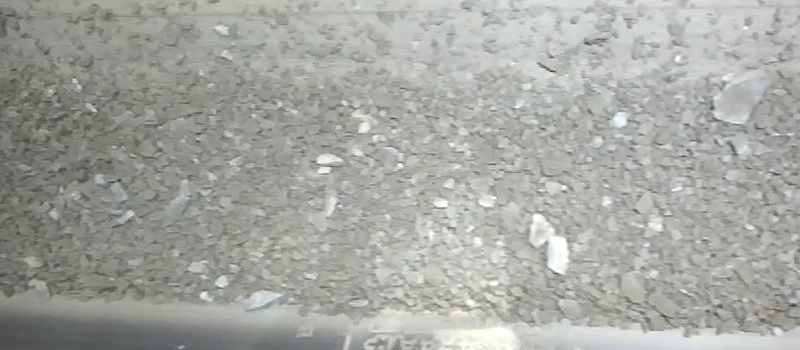
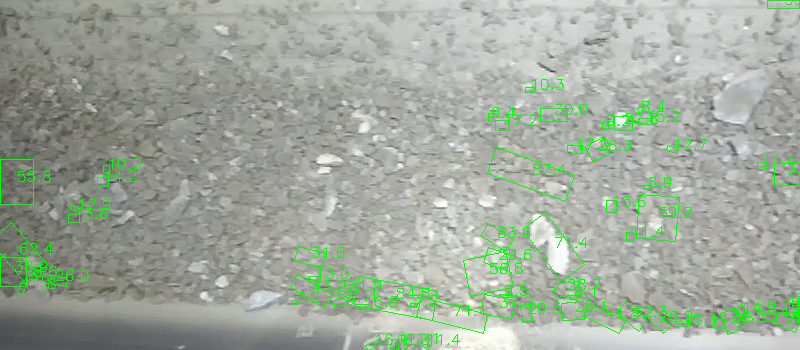
fix

diff --git a/processing/analyzer.py b/processing/analyzer.py
@@ -1,116 +1,174 @@
+from dataclasses import dataclass
+from typing import Tuple, List, Union
+
 import cv2
 import numpy as np
 import matplotlib.pyplot as plt
-from typing import Tuple, List, Union
 
-from processing.depth_config import DepthConfig
 from processing.color_config import ColorConfig
+from processing.depth_config import DepthConfig
 from processing.visual_config import VisualizationConfig
 
 def correct_slope(depth_map: np.ndarray, cfg: DepthConfig) -> np.ndarray:
     h, w = depth_map.shape
-    scale = 0.1 if depth_map.nbytes > 100e6 else 0.25
-    small = cv2.resize(depth_map, (0,0), fx=scale, fy=scale, interpolation=cv2.INTER_AREA)
+    scale = cfg.slope_scale_large if depth_map.nbytes > cfg.slope_bytes_threshold else cfg.slope_scale_small
+    small = cv2.resize(depth_map, (0, 0), fx=scale, fy=scale, interpolation=cv2.INTER_AREA)
     ys, xs = np.nonzero(small > cfg.depth_min)
-    if len(xs) < 100:
+    if len(xs) < cfg.svd_point_threshold:
         return depth_map
-    zs = small[ys,xs]
-    xs_f, ys_f = xs/scale, ys/scale
+    zs = small[ys, xs]
+    xs_f, ys_f = xs / scale, ys / scale
     pts = np.stack([xs_f, ys_f, zs], axis=1)
     centroid = pts.mean(axis=0)
-    _,_,Vt = np.linalg.svd(pts-centroid, full_matrices=False)
+    _, _, Vt = np.linalg.svd(pts - centroid, full_matrices=False)
     normal = Vt[2]
-    X,Y = np.meshgrid(np.arange(w), np.arange(h))
-    Zp = ((normal[0]*(X-centroid[0])+normal[1]*(Y-centroid[1]))/normal[2]) + centroid[2]
-    corr = np.where(depth_map>cfg.depth_min, depth_map - Zp, depth_map)
+    X, Y = np.meshgrid(np.arange(w), np.arange(h))
+    Zp = ((normal[0] * (X - centroid[0]) + normal[1] * (Y - centroid[1])) / normal[2]) + centroid[2]
+    corr = np.where(depth_map > cfg.depth_min, depth_map - Zp, depth_map)
     return np.clip(corr, cfg.depth_min, cfg.depth_max).astype(np.float32)
 
-def segment_color(img: np.ndarray, cfg: ColorConfig) -> np.ndarray:
-        # 0. Медианный фильтр для подавления шума :contentReference[oaicite:3]{index=3}
-    if cfg.median_blur_size > 1:
-        img = cv2.medianBlur(img, cfg.median_blur_size)
-    gray = cv2.cvtColor(img, cv2.COLOR_BGR2GRAY)
-    gray = cv2.equalizeHist(gray)
-    if cfg.adaptive_thresh:
-        return cv2.adaptiveThreshold(gray,255,cv2.ADAPTIVE_THRESH_GAUSSIAN_C,
-                                     cv2.THRESH_BINARY,11,2)
-    flag = cv2.THRESH_BINARY
-    if cfg.binary_thresh==0: flag |= cv2.THRESH_OTSU
-    _,b = cv2.threshold(gray, cfg.binary_thresh,255,flag)
-    return b
-
-def segment_depth(dm: np.ndarray, cfg: DepthConfig) -> np.ndarray:
-        # 0. Медианный фильтр по глубине для сглаживания выбросов :contentReference[oaicite:4]{index=4}
-    if cfg.median_blur_size > 1:
-        dm = cv2.medianBlur(dm, cfg.median_blur_size)
-    dn = cv2.normalize(dm,None,0,255,cv2.NORM_MINMAX).astype(np.uint8)
-    if cfg.adaptive_thresh:
-        return cv2.adaptiveThreshold(dn,255,cv2.ADAPTIVE_THRESH_GAUSSIAN_C,
-                                     cv2.THRESH_BINARY,11,2)
-    flag = cv2.THRESH_BINARY
-    if cfg.binary_thresh==0: flag |= cv2.THRESH_OTSU
-    _,b = cv2.threshold(dn, cfg.binary_thresh,255,flag)
-    return b
-
-def process_mask(mask: np.ndarray, k:int, it:int) -> np.ndarray:
-    ker = np.ones((k,k),np.uint8)
-    op = cv2.morphologyEx(mask,cv2.MORPH_OPEN,ker,iterations=it)
-    return cv2.erode(op, np.ones((2,2),np.uint8),iterations=1)
 
 def analyze_mask(img: np.ndarray, mask: np.ndarray,
-                 cfg: Union[ColorConfig,DepthConfig]) \
-        -> Tuple[np.ndarray,List[float],List[float]]:
-    dist = cv2.distanceTransform(mask,cv2.DIST_L2,cfg.distance_transform_mask)
-    _,fg = cv2.threshold(dist, cfg.foreground_threshold_ratio*dist.max(),255,0)
-    fg = fg.astype(np.uint8)
-    bg = cv2.dilate(mask, np.ones((3,3),np.uint8),iterations=cfg.dilate_iterations)
-    unk = cv2.subtract(bg,fg)
-    _,m = cv2.connectedComponents(fg)
-    m = (m+1).astype(np.int32); m[unk==255]=0
-    gray = cv2.cvtColor(img,cv2.COLOR_BGR2GRAY)
-    markers = cv2.watershed(cv2.merge([gray]*3), m)
-    seg = (markers>1).astype(np.uint8)
-    _,_,stats,_ = cv2.connectedComponentsWithStats(seg, connectivity=8)
+                 cfg: Union[ColorConfig, DepthConfig]) -> Tuple[np.ndarray, List[float], List[float]]:
+    contours, _ = cv2.findContours(mask, cv2.RETR_EXTERNAL, cv2.CHAIN_APPROX_SIMPLE)
     res = img.copy()
-    diams,xs = [],[]
-    for st in stats[1:]:
-        area = st[cv2.CC_STAT_AREA]
-        d = 2*np.sqrt(area/np.pi)
-        if cfg.min_particle_size<=d<=cfg.max_particle_size:
-            diams.append(d)
-            x,y,w,h = st[:4]
-            cx = x + w/2; xs.append(cx)
-            cv2.rectangle(res,(x,y),(x+w,y+h),cfg.bbox_color,cfg.bbox_thickness)
-            cv2.putText(res,f"{d:.1f}",(x,y-5),cv2.FONT_HERSHEY_SIMPLEX,
-                        cfg.font_scale,cfg.bbox_color,cfg.font_thickness)
-    return res,diams,xs
+    diagonals, xs = [], []
+
+    for cnt in contours:
+        area = cv2.contourArea(cnt)
+        if area < cfg.min_contour_area:
+            continue
+
+        rect = cv2.minAreaRect(cnt)
+        (cx, cy), (w, h), angle = rect
+        diag = np.sqrt(w ** 2 + h ** 2)
+
+        if not (cfg.min_particle_size <= diag <= cfg.max_particle_size):
+            continue
+
+        box = cv2.boxPoints(rect)
+        box = np.int0(box)
+        diagonals.append(diag)
+        xs.append(cx)
+
+        cv2.drawContours(res, [box], 0, cfg.bbox_color, cfg.bbox_thickness)
+        cv2.putText(res, f"{diag:.1f}", (int(cx), int(cy)),
+                    cv2.FONT_HERSHEY_SIMPLEX, cfg.font_scale, cfg.bbox_color, cfg.font_thickness)
+
+    return res, diagonals, xs
+
+
+def segment_color(img: np.ndarray, cfg: ColorConfig) -> dict:
+    steps = {"original": img.copy()}
+
+    median = cv2.medianBlur(img, cfg.median_blur_size) if cfg.median_blur_size > 1 else img.copy()
+    steps["median_blur"] = median.copy()
+
+    gray = cv2.cvtColor(median, cv2.COLOR_BGR2GRAY)
+    steps["gray"] = gray.copy()
+
+    if cfg.adaptive_thresh:
+        binary = cv2.adaptiveThreshold(
+            gray, 255, cv2.ADAPTIVE_THRESH_GAUSSIAN_C,
+            cv2.THRESH_BINARY, cfg.adaptive_block_size, cfg.adaptive_C
+        )
+    else:
+        flag = cv2.THRESH_BINARY
+        if cfg.use_otsu and cfg.binary_thresh == 0:
+            flag |= cv2.THRESH_OTSU
+        _, binary = cv2.threshold(gray, cfg.binary_thresh, 255, flag)
+    steps["binary_mask"] = binary.copy()
+    return steps
+
+
+def segment_depth(dm: np.ndarray, cfg: DepthConfig) -> dict:
+    steps = {"original_depth": dm.copy()}
+
+    median = cv2.medianBlur(dm, cfg.median_blur_size) if cfg.median_blur_size > 1 else dm.copy()
+    steps["median_blur"] = median.copy()
+
+    normalized = cv2.normalize(median, None, 0, 255, cv2.NORM_MINMAX).astype(np.uint8)
+    steps["normalized"] = normalized.copy()
+
+    if cfg.adaptive_thresh:
+        binary = cv2.adaptiveThreshold(
+            normalized, 255, cv2.ADAPTIVE_THRESH_GAUSSIAN_C,
+            cv2.THRESH_BINARY, cfg.adaptive_block_size, cfg.adaptive_C
+        )
+    else:
+        flag = cv2.THRESH_BINARY
+        if cfg.use_otsu and cfg.binary_thresh == 0:
+            flag |= cv2.THRESH_OTSU
+        _, binary = cv2.threshold(normalized, cfg.binary_thresh, 255, flag)
+    steps["binary_mask"] = binary.copy()
+    return steps
+
+
+def process_mask(mask: np.ndarray, cfg: Union[ColorConfig, DepthConfig]) -> np.ndarray:
+    shape_map = {
+        "rect": cv2.MORPH_RECT,
+        "ellipse": cv2.MORPH_ELLIPSE,
+        "cross": cv2.MORPH_CROSS
+    }
+    kernel_shape = shape_map.get(cfg.morph_kernel_shape, cv2.MORPH_RECT)
+    ker = cv2.getStructuringElement(kernel_shape, (cfg.morph_kernel_size, cfg.morph_kernel_size))
+    opened = cv2.morphologyEx(mask, cv2.MORPH_OPEN, ker, iterations=cfg.morph_iterations)
+    eroded = cv2.erode(opened, np.ones((2, 2), np.uint8), iterations=1)
+    return eroded
+
 
 def analyze_frame(color_img: np.ndarray, depth_map: np.ndarray,
                   d_cfg: DepthConfig, c_cfg: ColorConfig,
-                  v_cfg: VisualizationConfig):
-    # types
-    if color_img.dtype!=np.uint8 and color_img.max()<=1.0:
-        color_img=(color_img*255).astype(np.uint8)
-    if depth_map.dtype!=np.float32:
-        depth_map=depth_map.astype(np.float32)
-    # slope
-    if d_cfg.slope_correction:
-        depth_map = correct_slope(depth_map,d_cfg)
-    # color pipeline
-    cm = segment_color(color_img,c_cfg)
-    cp = process_mask(cm,c_cfg.morph_kernel_size,c_cfg.morph_iterations)
-    cres, cdi, cxs = analyze_mask(color_img,cp,c_cfg)
-    # depth pipeline
-    dm = segment_depth(depth_map,d_cfg)
-    dp = process_mask(dm,d_cfg.morph_kernel_size,d_cfg.morph_iterations)
-    dres, ddi, dxs = analyze_mask(color_img,dp,d_cfg)
-    # show
+                  v_cfg: VisualizationConfig,
+                  use_depth: bool = True):
+    if color_img.dtype != np.uint8 and color_img.max() <= 1.0:
+        color_img = (color_img * 255).astype(np.uint8)
+    if depth_map.dtype != np.float32:
+        depth_map = depth_map.astype(np.float32)
+
+    if d_cfg.slope_correction and use_depth:
+        depth_map = correct_slope(depth_map, d_cfg)
+
+    # === COLOR PIPELINE ===
+    color_steps = segment_color(color_img, c_cfg)
+    morphed_mask = process_mask(color_steps["binary_mask"], c_cfg)
+    color_steps["morphed_mask"] = morphed_mask.copy()
+    cres, cdi, cxs = analyze_mask(color_img, morphed_mask, c_cfg)
+    color_steps["result"] = cres.copy()
+
+    # === DEPTH PIPELINE ===
+    depth_steps = None
+    if use_depth:
+        depth_steps = segment_depth(depth_map, d_cfg)
+        dp = process_mask(depth_steps["binary_mask"], d_cfg)
+        depth_steps["morphed_mask"] = dp.copy()
+        dres, ddi, dxs = analyze_mask(color_img, dp, d_cfg)
+        depth_steps["result"] = dres.copy()
+    else:
+        dres, ddi, dxs = None, None, None
+
+    # === PLOTS ===
     if v_cfg.show_plots:
-        plt.figure(figsize=v_cfg.plot_figsize)
-        titles=["Color Mask","Depth Mask","Color Proc","Depth Proc","Color Res","Depth Res"]
-        imgs=[cm,dm,cp,dp,cres,dres]
-        for i,(t,im) in enumerate(zip(titles,imgs),1):
-            plt.subplot(2,3,i); plt.title(t)
-            plt.imshow(im,cmap='gray' if im.ndim==2 else None); plt.axis('off')
-        plt.tight_layout(); plt.show()
-    return (cres,cdi,cxs),(dres,ddi,dxs)
+        plt.figure(figsize=(v_cfg.plot_figsize[0], v_cfg.plot_figsize[1] * len(color_steps)))
+        for i, (title, img) in enumerate(color_steps.items()):
+            plt.subplot(len(color_steps), 1, i + 1)
+            plt.title(f"COLOR: {title}")
+            cmap = 'gray' if img.ndim == 2 else None
+            plt.imshow(img, cmap=cmap)
+            plt.axis('off')
+        plt.tight_layout()
+        plt.show()
+
+        # Раскомментируй при необходимости визуализации глубины
+        # if use_depth and depth_steps:
+        #     plt.figure(figsize=(v_cfg.plot_figsize[0], v_cfg.plot_figsize[1] * len(depth_steps)))
+        #     for i, (title, img) in enumerate(depth_steps.items()):
+        #         plt.subplot(len(depth_steps), 1, i + 1)
+        #         plt.title(f"DEPTH: {title}")
+        #         cmap = 'gray' if img.ndim == 2 else None
+        #         plt.imshow(img, cmap=cmap)
+        #         plt.axis('off')
+        #     plt.tight_layout()
+        #     plt.show()
+
+    return (cres, cdi, cxs), (dres, ddi, dxs)

diff --git a/processing/color_config.py b/processing/color_config.py
@@ -3,22 +3,28 @@ from typing import Tuple
 
 @dataclass
 class ColorConfig:
-    # --- Новое поле для медианной фильтрации ---
-    median_blur_size: int = 3       
+    # === Предобработка ===
+    median_blur_size: int = 3
+
+    # === Бинаризация ===
     adaptive_thresh: bool = True
-    binary_thresh: int = 100
+    adaptive_block_size: int = 25
+    adaptive_C: int = 5
+    binary_thresh: int = 0  # если 0 — применится Otsu
+    use_otsu: bool = True
 
-    morph_kernel_size: int = 2
-    morph_iterations: int = 3
+    # === Морфология ===
+    morph_kernel_size: int = 3
+    morph_iterations: int = 1
+    morph_kernel_shape: str = "rect"  # "rect", "ellipse", "cross"
 
-    distance_transform_mask: int = 1
-    foreground_threshold_ratio: float = 0.5
-    dilate_iterations: int = 3
+    # === Фильтрация по размерам частиц ===
+    min_particle_size: float = 5.0
+    max_particle_size: float = 1000.0
+    min_contour_area: float = 20.0
 
-    min_particle_size: float = 3
-    max_particle_size: float = 100
-
+    # === Визуализация ===
     bbox_color: Tuple[int, int, int] = (0, 255, 0)
-    bbox_thickness: int = 1
+    bbox_thickness: int = 2
     font_scale: float = 0.5
-    font_thickness: int = 0
+    font_thickness: int = 1
